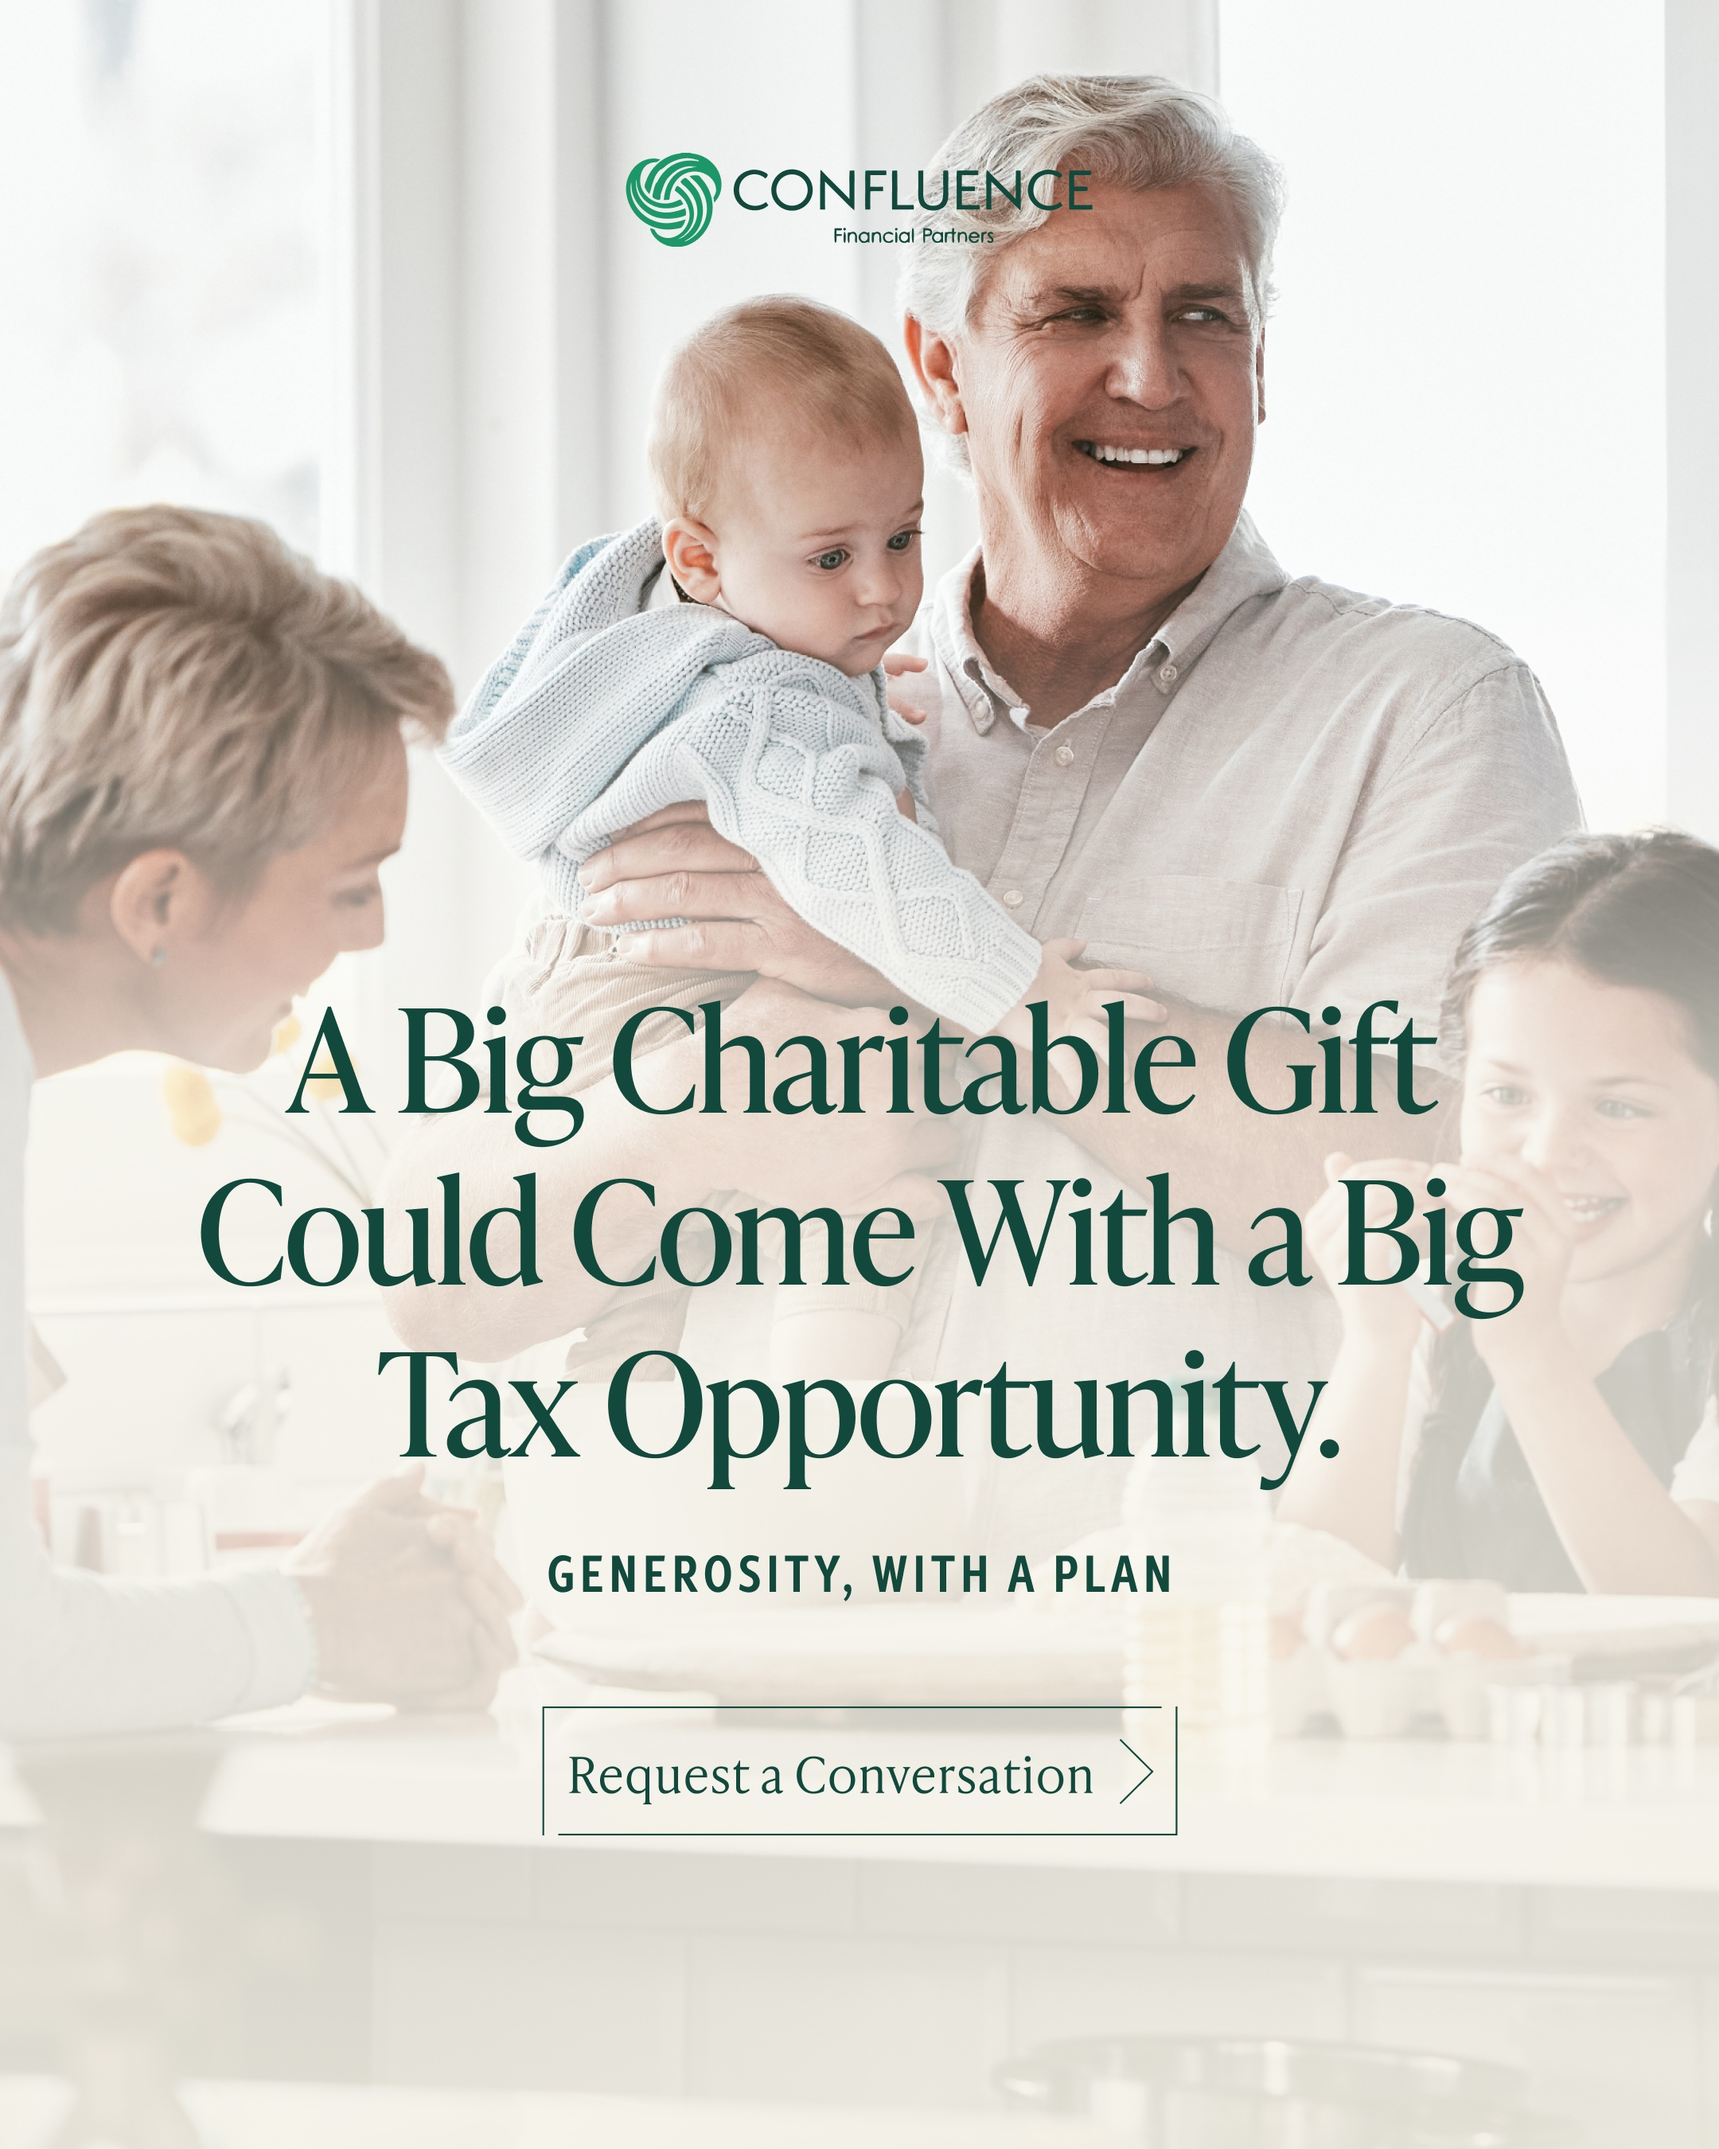
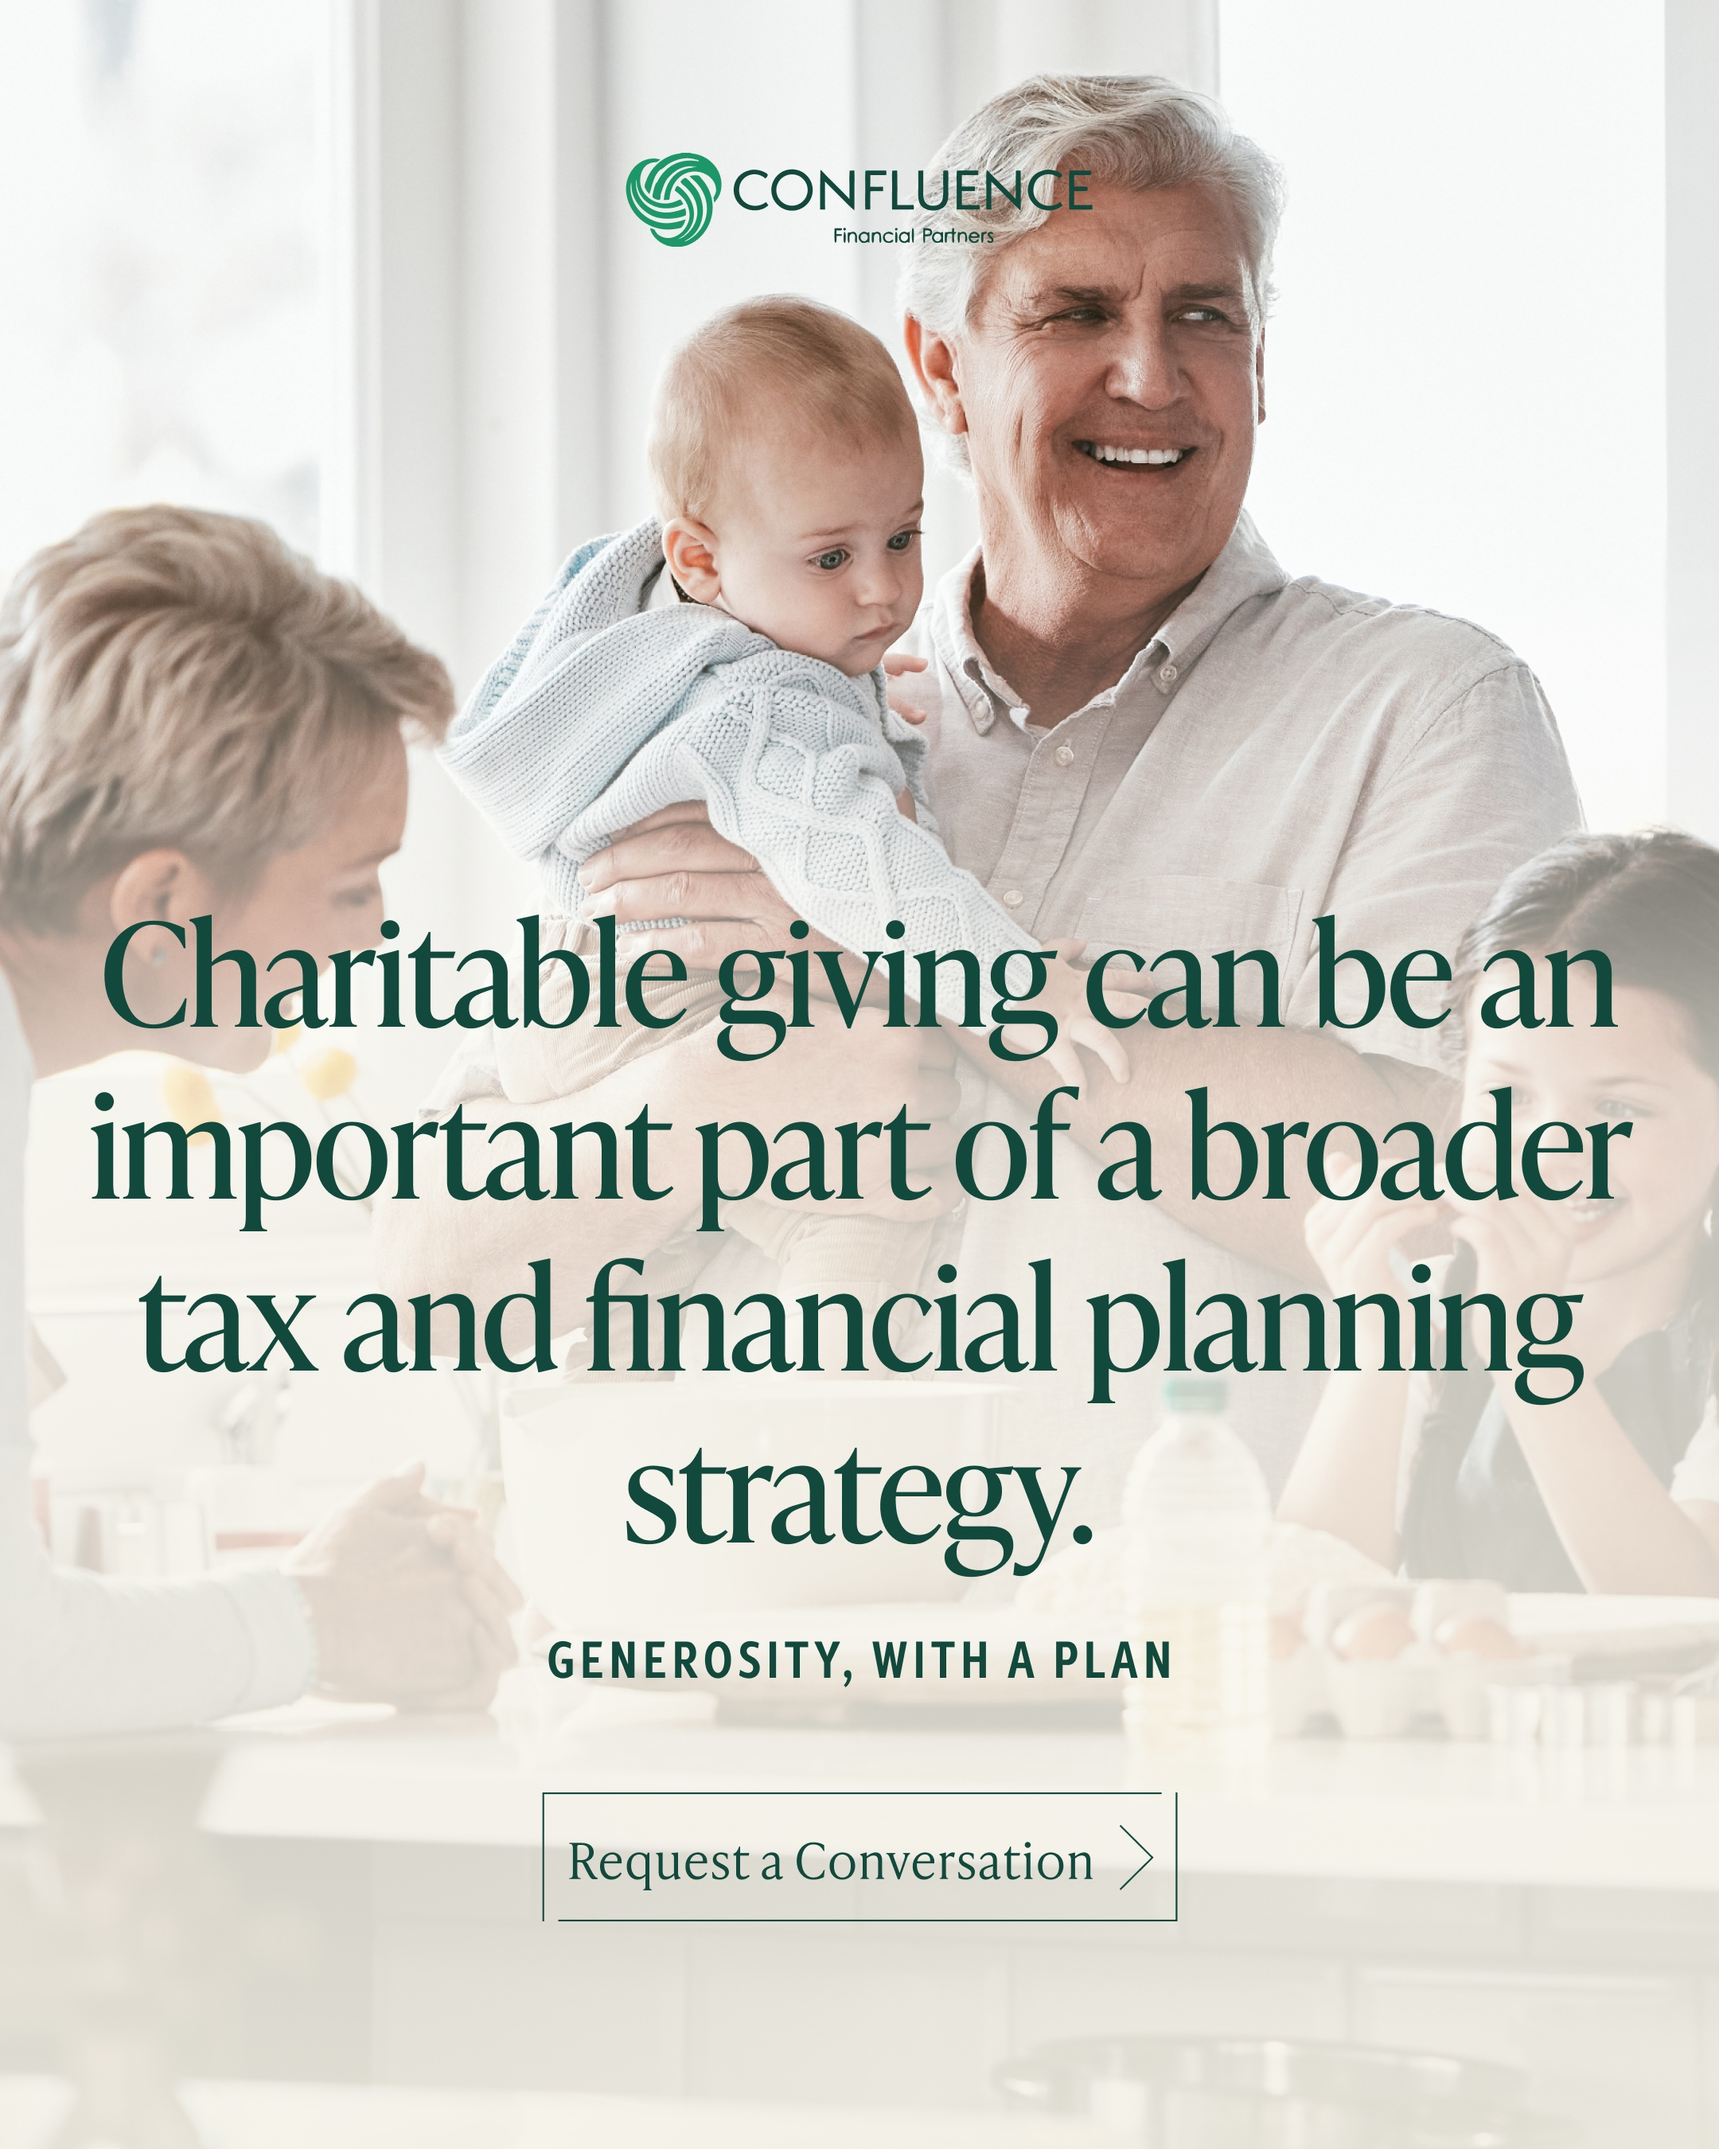
CFP vEdge: Ad 13 (Philanthropic) headline -> broader tax/financial planning framing (Katie edit)

Changed region(s): [[0.031, 0.4044, 0.9616, 0.7778], [0.3102, 0.8089, 0.6514, 0.9022]]

diff --git a/confluence-fp-consultation-vedge/index.html b/confluence-fp-consultation-vedge/index.html
@@ -1205,7 +1205,7 @@ let _activeImageVersion = {};
 let _placementIdx = {};
 let _feedbackCache = {};
 const CAMPAIGN_ID = 'confluence-fp-consultation-vedge';
-const ASSET_V = '1787333346';  // cache-bust token, stamped at bake time
+const ASSET_V = '1787333484';  // cache-bust token, stamped at bake time
 
 // ── Utility ────────────────────────────────────────────────────────────────
 function esc(s) {

diff --git a/confluence-fp-consultation-vedge/IMAGE-TEXT-PUNCHLIST.md b/confluence-fp-consultation-vedge/IMAGE-TEXT-PUNCHLIST.md
@@ -19,7 +19,7 @@ Source: `feedback` table, campaign `confluence-fp-consultation-vedge`.
 | 10 | Generational | Don't Just Build Your Legacy. Prepare Your Heirs. / MORE THAN THE MONEY | headline → **"Don't Just Build Your Legacy. Plan for the Next Generation."** | ✅ placed (output 103) |
 | 11 | Life-Stage | Life's Milestones Don't Come With a Financial Playbook. / LIFE RARELY STANDS STILL | (no comment) | ✓ |
 | 12 | Exit | I'm Ready to Sell My Business. What's Next? / THE OFFER WILL COME | eyebrow → **"Preparing for life after the sale starts before the transaction."** | ✅ placed (output 104) |
-| 13 | Philanthropic | A Big Charitable Gift Could Come With a Big Tax Opportunity. / GENEROSITY, WITH A PLAN | headline → **"Charitable giving can be an important part of a broader tax and financial planning strategy."** | ☐ |
+| 13 | Philanthropic | A Big Charitable Gift Could Come With a Big Tax Opportunity. / GENEROSITY, WITH A PLAN | headline → **"Charitable giving can be an important part of a broader tax and financial planning strategy."** | ✅ placed (output 105) |
 
 **Dollar figures:** Katie (compliance) reviewed ad-by-ad and kept the $ headlines on Ads 1 & 2 (edited only their eyebrows). That's her compliance call — leave as approved, no action.
 
